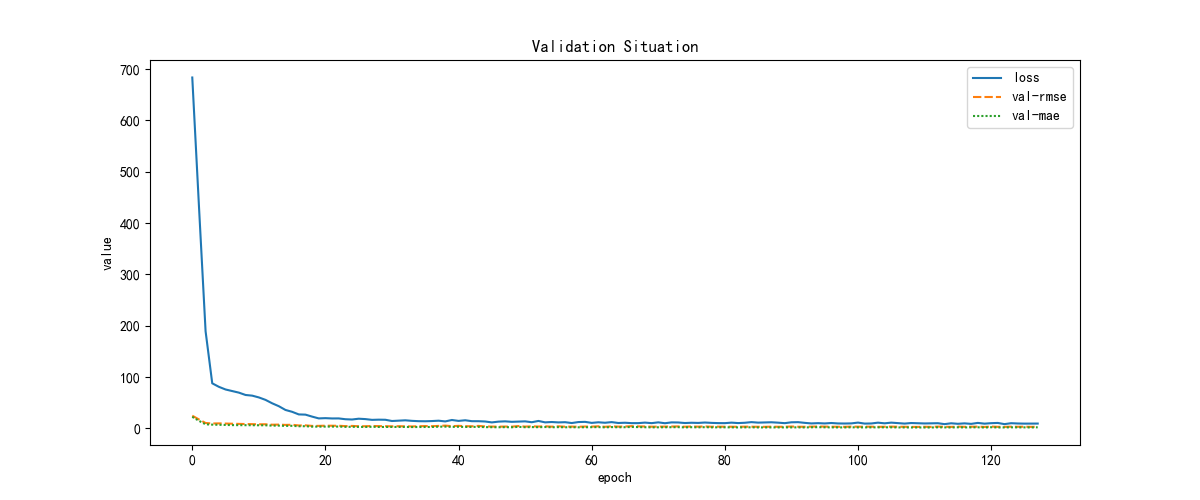
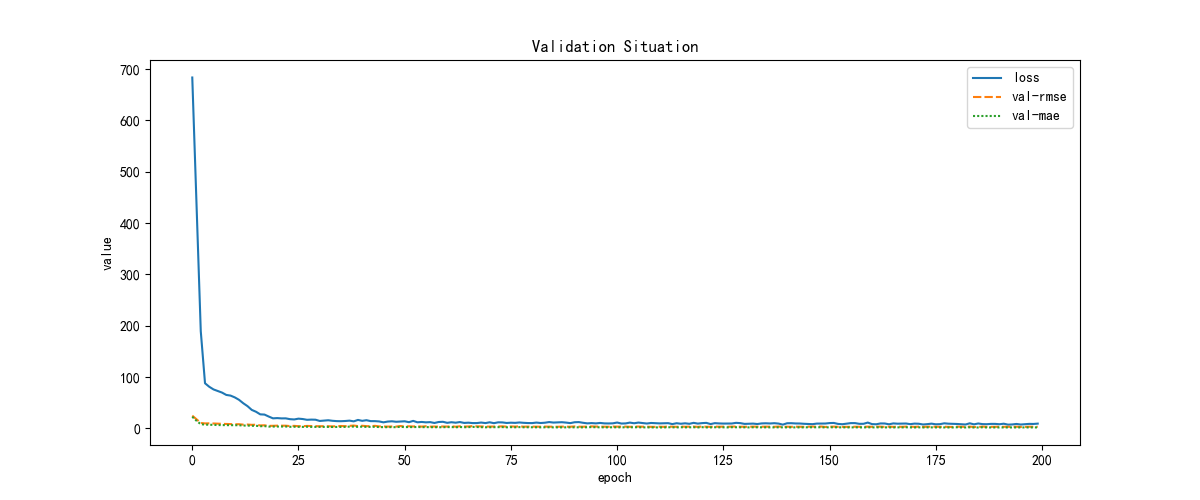
2022.04.03(2)

diff --git a/TabNet_Model_Train.py b/TabNet_Model_Train.py
@@ -5,50 +5,21 @@ import torch
 from matplotlib import pyplot as plt
 from pytorch_tabnet.tab_model import TabNetRegressor
 from sklearn.model_selection import train_test_split
-from sklearn.linear_model import LinearRegression
 from sklearn.metrics import mean_squared_error, r2_score, mean_absolute_error
-from sklearn.tree import DecisionTreeRegressor
-from sklearn.neural_network import MLPRegressor
-from xgboost import XGBRegressor
 import seaborn as sns
-from sklearn.preprocessing import MinMaxScaler, StandardScaler
 from def_fun import plot_history
 import shap
 
 plt.rcParams['font.sans-serif'] = ['SimHei']
 plt.rcParams['axes.unicode_minus'] = False
-
 np.random.seed(10)
 
 data = pd.read_excel('data/bistandard+soft_fill.xlsx')
-
 data_x = data.iloc[:, :-1]
 feat_importance = data_x.columns
 data_y = data.iloc[:, -1]  # ！！！
 
 train_x, test_x, train_y, test_y = train_test_split(data_x, data_y, test_size=0.2, shuffle=True, random_state=10)
-
-# print(train_x.shape)
-# print(train_y.shape)
-# print(test_x.shape)
-# print(test_y.shape)
-
-# scl = [StandardScaler(), MinMaxScaler()][0]
-# train_x = scl.fit_transform(train_x)
-# test_x = scl.fit_transform(test_x)
-
-clf = [XGBRegressor(), LinearRegression(), DecisionTreeRegressor(), MLPRegressor(hidden_layer_sizes=(50, 50))][0]
-clf.fit(train_x, train_y)
-pred_y = clf.predict(test_x)
-
-mse = mean_squared_error(test_y, pred_y)
-mae = mean_absolute_error(test_y, pred_y)
-r2 = r2_score(test_y, pred_y)
-
-print(np.sqrt(mse))
-print(mae)
-print(r2)
-
 test_x, valid_x, test_y, valid_y = train_test_split(test_x, test_y, test_size=0.5, shuffle=True, random_state=10)
 
 train_x = np.array(train_x)
@@ -58,19 +29,8 @@ train_y = np.array(train_y).reshape(-1, 1)
 test_y = np.array(test_y).reshape(-1, 1)
 valid_y = np.array(valid_y).reshape(-1, 1)
 
-# scl = [StandardScaler(), MinMaxScaler()][0]
-# train_x = scl.fit_transform(train_x)
-# valid_x = scl.fit_transform(valid_x)
-# test_x = scl.fit_transform(test_x)
-
-# print(train_x.shape)
-# print(train_y.shape)
-# print(test_x.shape)
-# print(test_y.shape)
-
-
 clf = TabNetRegressor(
-    verbose=False,
+    verbose=True,
     seed=10,
     optimizer_fn=torch.optim.Adam,
     optimizer_params=dict(lr=2e-2),
@@ -81,14 +41,13 @@ clf = TabNetRegressor(
 clf.fit(
     train_x, train_y,
     batch_size=256,
-    max_epochs=128,
+    max_epochs=200,
     eval_set=[(valid_x, valid_y)],
     eval_metric=['rmse', 'mae'],
     patience=0
 )
 
 pred_y = clf.predict(test_x)
-
 pred_y = pred_y.reshape(1, -1)[0]
 test_y = test_y.reshape(1, -1)[0]
 
@@ -135,10 +94,4 @@ plot_data = pd.DataFrame(data={
 plot_data = plot_data.set_index(keys='feat_name', drop=True)
 plot_data.plot(kind='bar')
 plt.show()
-# 下面计算特征重要性（shap使用）
-# shap.initjs()
-# explainer = shap.TreeExplainer(clf)  # 什么模型用什么解释器，有专门的深度学习解释器
-# shap_values = explainer.shap_values(train_x)
-# shap.force_plot(explainer.expected_value, shap_values[0, :], train_x[0, :], matplotlib=True)
-# # shap.force_plot(explainer.expected_value, shap_values, train_x,matplotlib=True)
-# shap.summary_plot(shap_values, train_x)
+

diff --git a/temp.py b/temp.py
@@ -12,9 +12,12 @@ from sklearn.preprocessing import MinMaxScaler, StandardScaler
 # print('keras版本：', keras.__version__)
 # print('torch版本：', torch.__version__)
 
-data = np.random.randint(10, 100, (4, 4))
-print(data)
+# data = np.random.randint(10, 100, (4, 4))
+# print(data)
+#
+# scl = StandardScaler()
+# data = scl.fit_transform(data)
+# print(data)
+# print(StandardScaler.__name__)
 
-scl = StandardScaler()
-data = scl.fit_transform(data)
-print(data)
+
